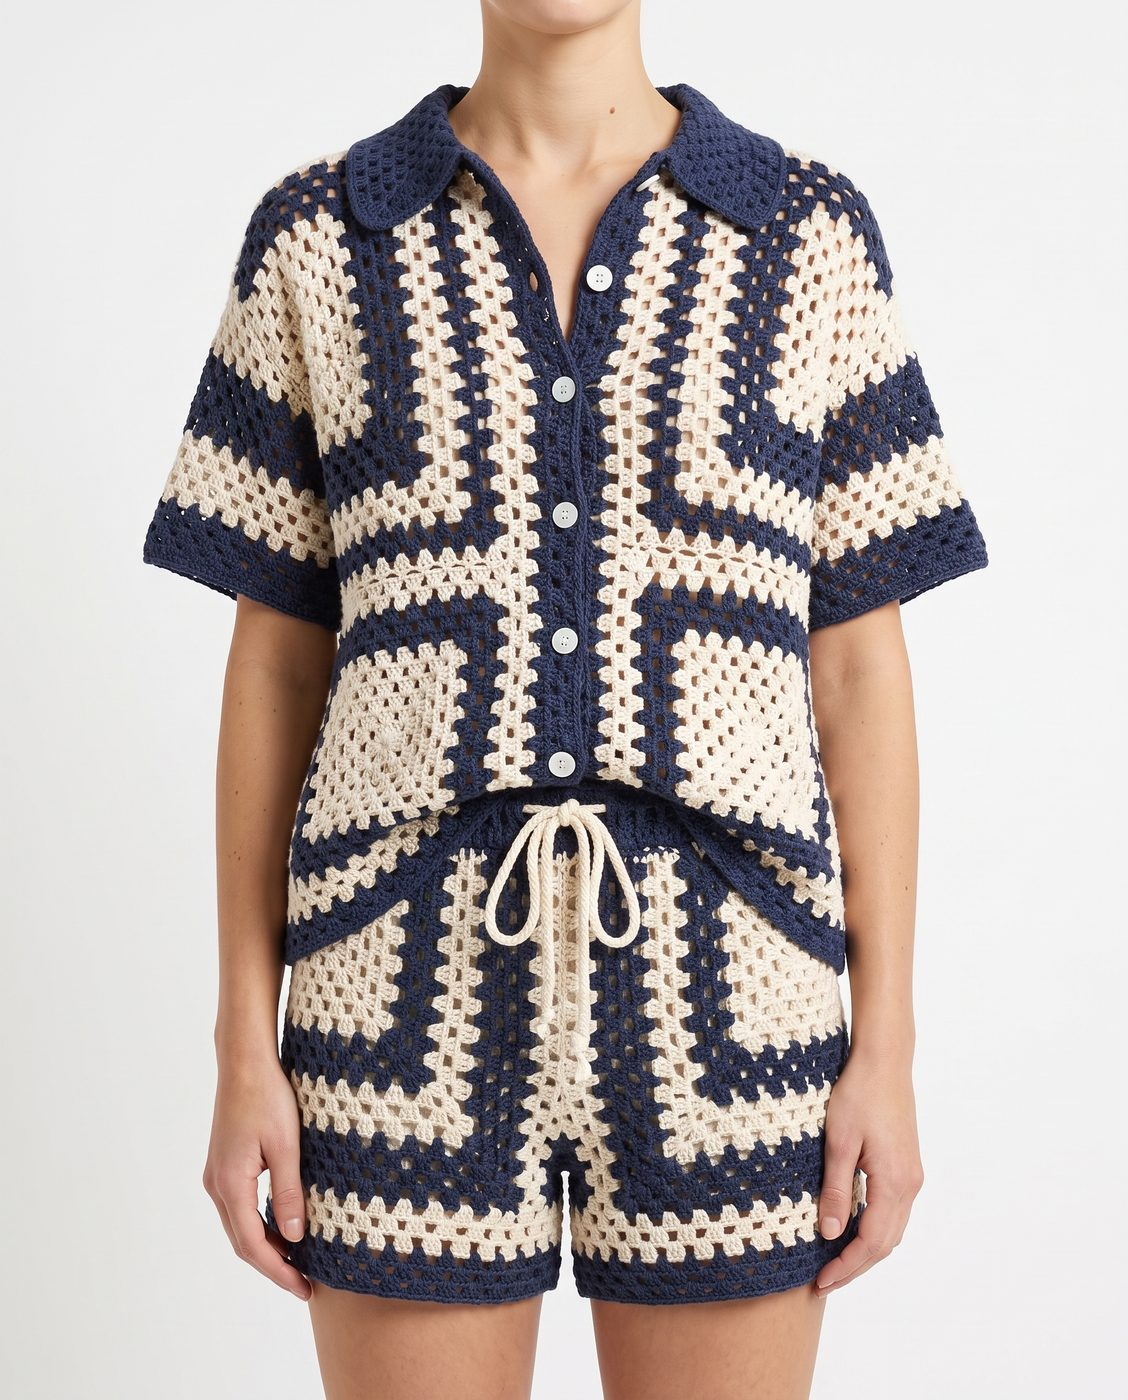
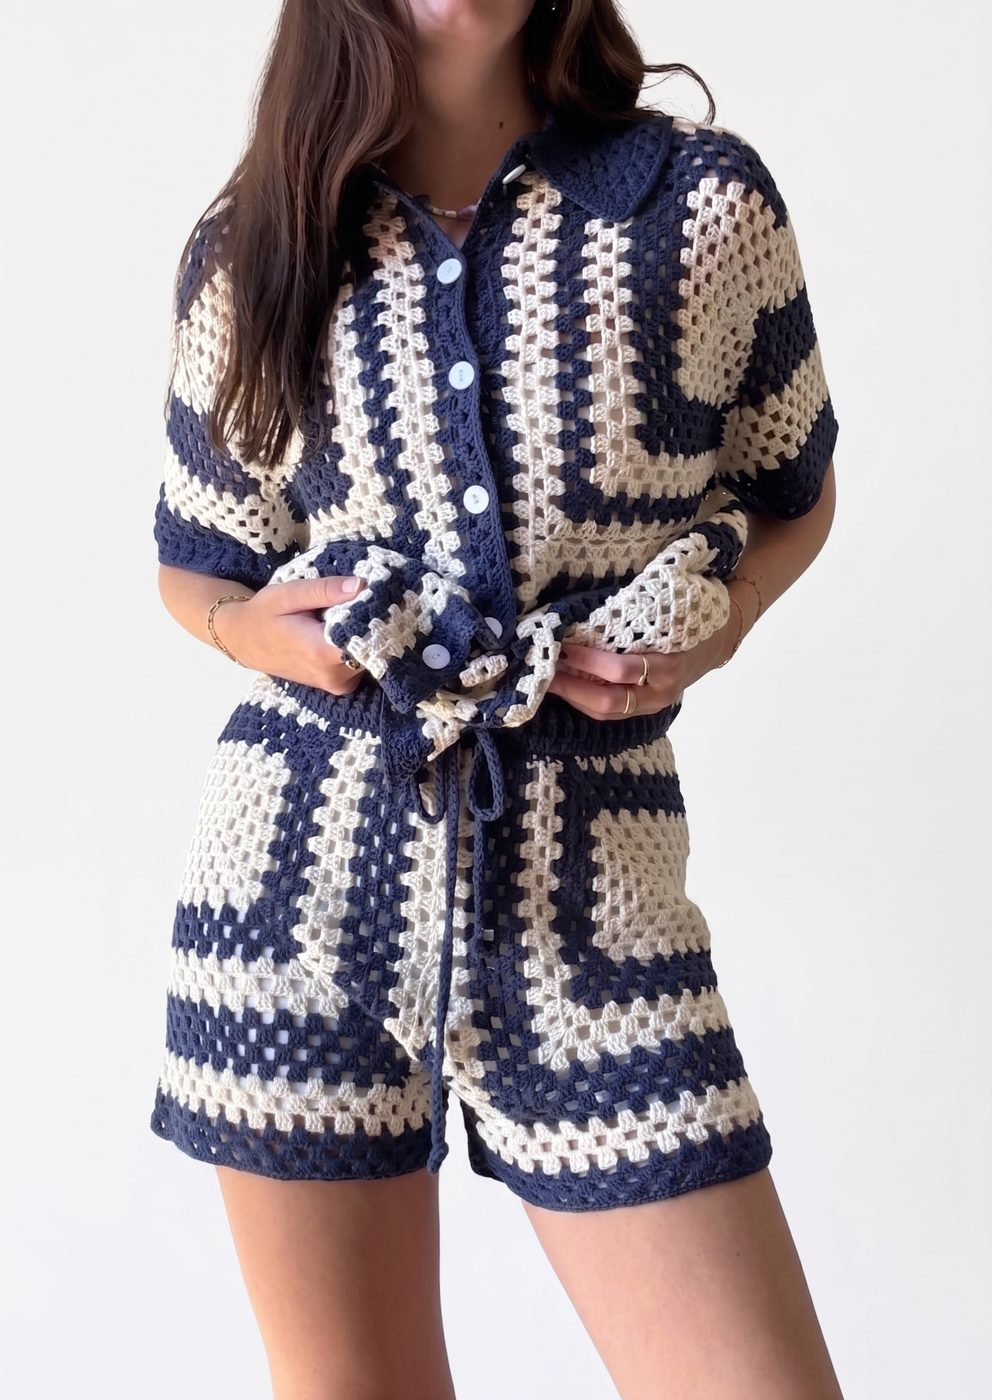
Trim product photos and remove the Cloud Mesh Top
Claude-Session: https://claude.ai/code/session_01XFjJJJkoeQuswHc83SWEGK

diff --git a/products.js b/products.js
@@ -739,8 +739,7 @@ const PRODUCTS = [
     "images": [
       "cocoa-stripe-mesh-top-front.jpg",
       "cocoa-stripe-mesh-top-g2.jpg",
-      "cocoa-stripe-mesh-top-g3.jpg",
-      "cocoa-stripe-mesh-top-g4.jpg"
+      "cocoa-stripe-mesh-top-g3.jpg"
     ]
   },
   {
@@ -792,33 +791,7 @@ const PRODUCTS = [
     "basePrice": 4500,
     "sizeStep": 500,
     "images": [
-      "rainbow-chevron-top-front.jpg",
-      "rainbow-chevron-top-g2.jpg"
-    ]
-  },
-  {
-    "id": "cloud-mesh-top",
-    "name": "The Cloud Mesh Top",
-    "category": "tops",
-    "price": "from LKR 4,500",
-    "short": "Oversized white mesh top with a soft, uneven hem",
-    "description": "An oversized top in fine white mesh with a soft, uneven hem. Throw it over a swimsuit, a slip or a vest top for an easy layered look. Crocheted entirely by hand to your size. Gentle cold hand wash, dry flat.",
-    "colors": [
-      "White"
-    ],
-    "sizes": [
-      "XS",
-      "S",
-      "M",
-      "L",
-      "XL",
-      "XXL"
-    ],
-    "sizeChart": [],
-    "basePrice": 4500,
-    "sizeStep": 500,
-    "images": [
-      "cloud-mesh-top-front.jpg"
+      "rainbow-chevron-top-front.jpg"
     ]
   },
   {
@@ -896,10 +869,7 @@ const PRODUCTS = [
     ],
     "sizeChart": [],
     "images": [
-      "navy-granny-square-set-front.jpg",
-      "navy-granny-square-set-g2.jpg",
-      "navy-granny-square-set-g3.jpg",
-      "navy-granny-square-set-g4.jpg"
+      "navy-granny-square-set-front.jpg"
     ]
   },
   {
@@ -946,9 +916,7 @@ const PRODUCTS = [
     ],
     "sizeChart": [],
     "images": [
-      "fiesta-granny-square-maxi-skirt-front.jpg",
-      "fiesta-granny-square-maxi-skirt-g2.jpg",
-      "fiesta-granny-square-maxi-skirt-g3.jpg"
+      "fiesta-granny-square-maxi-skirt-front.jpg"
     ]
   },
   {
